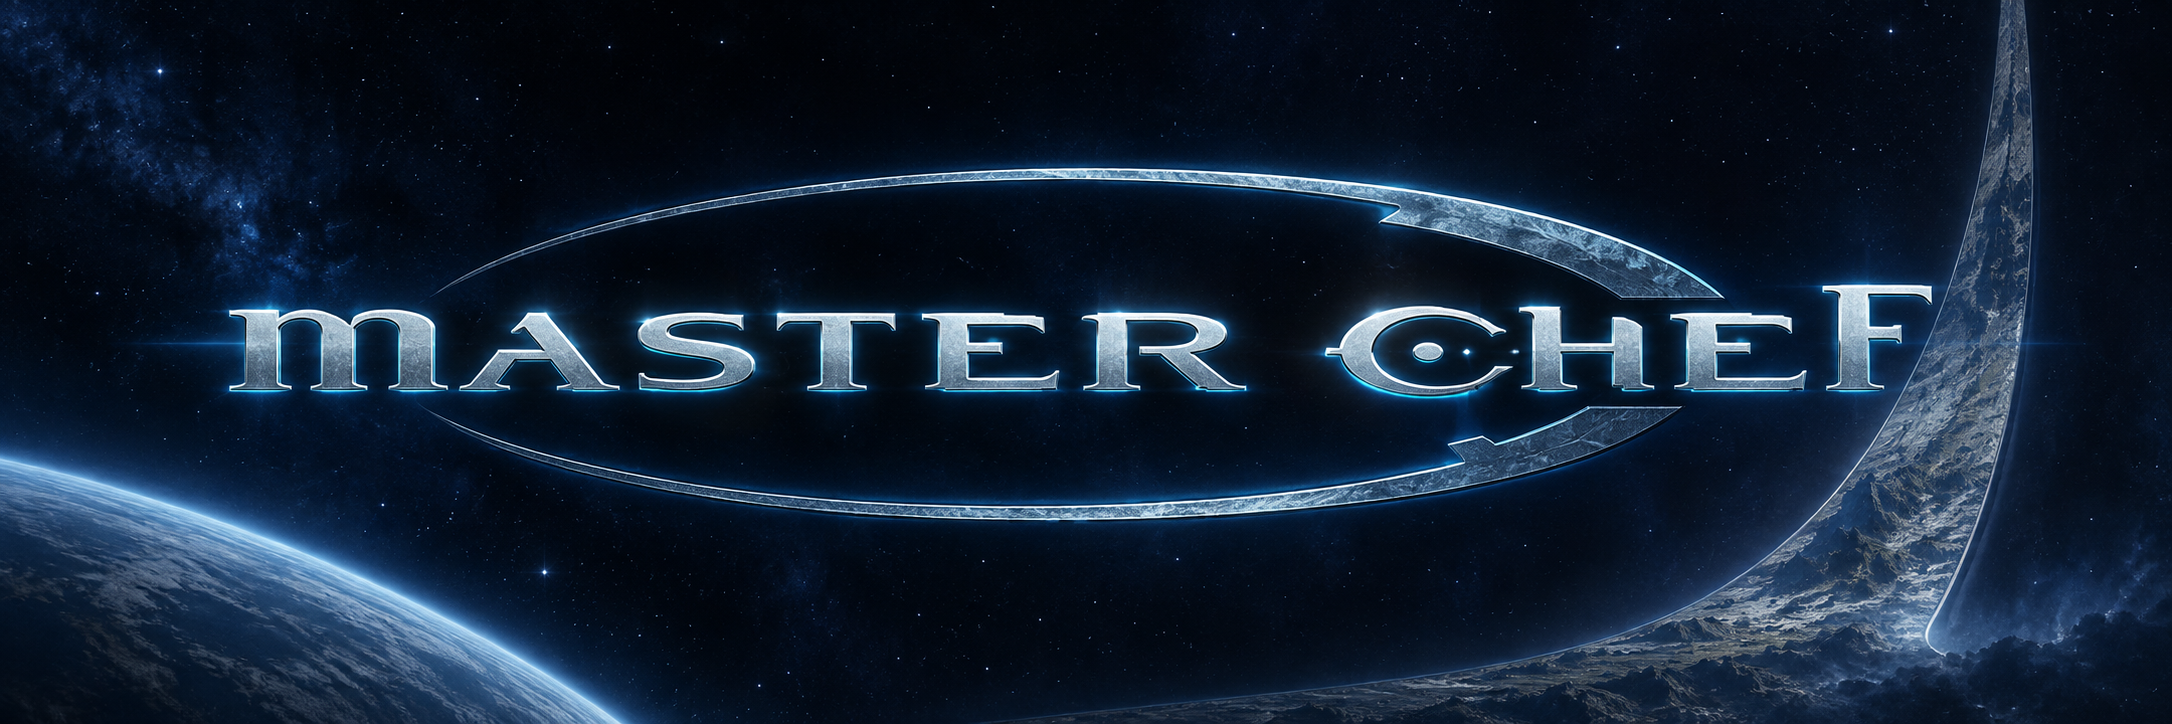
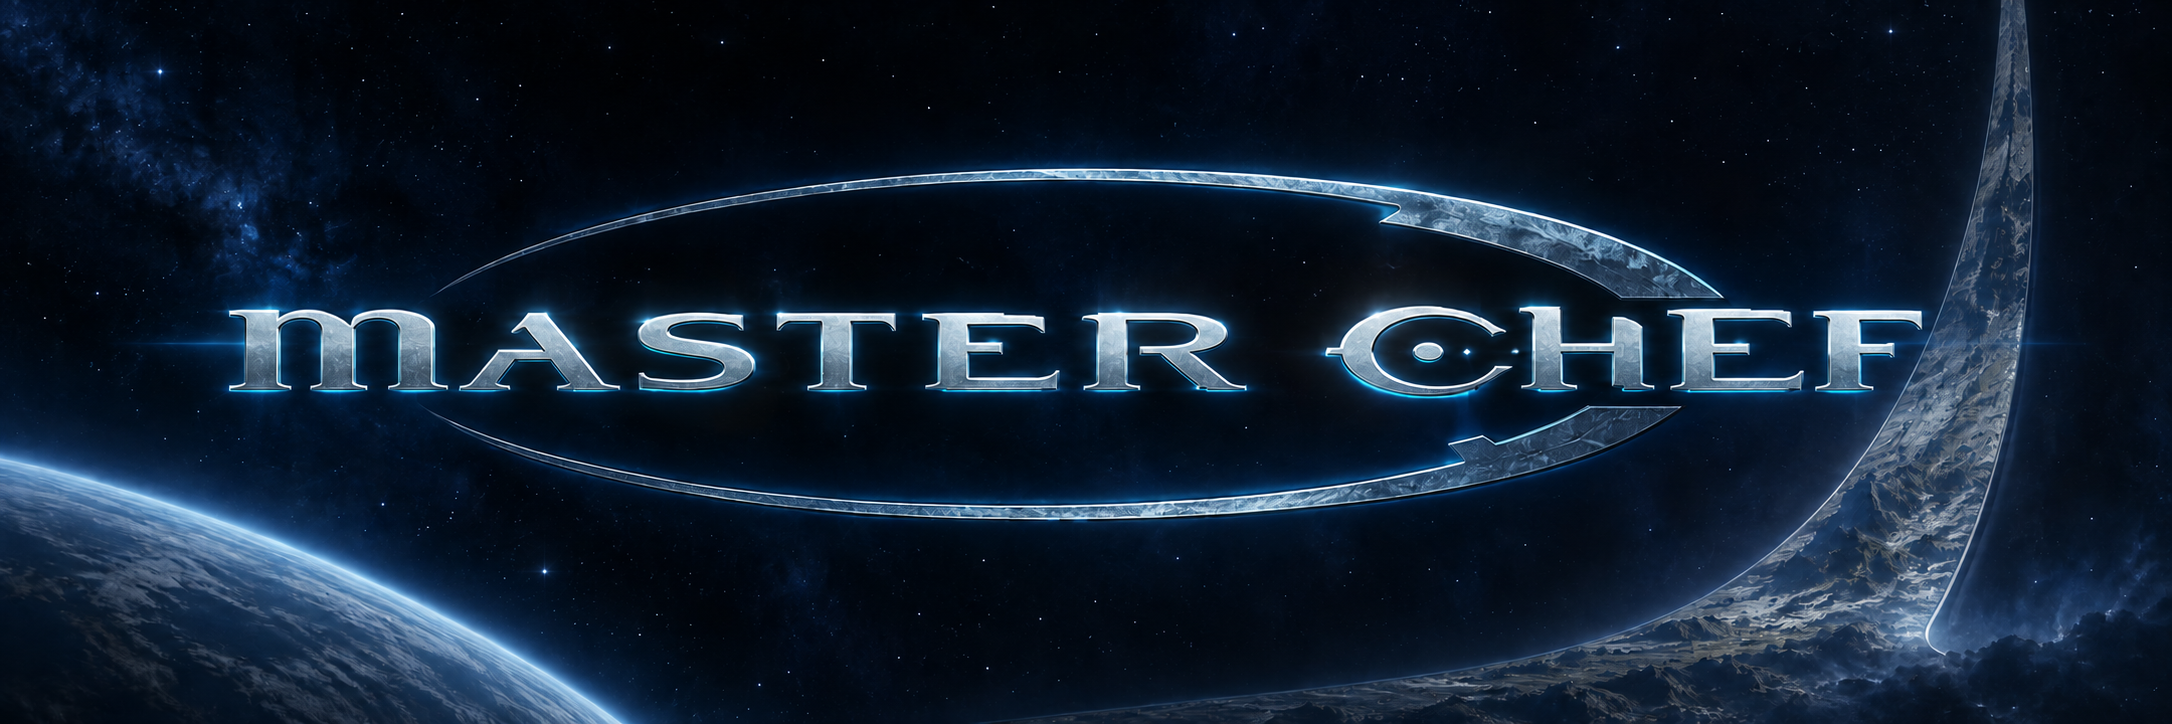
Correct CHEF header lettering and record Build91 startup

diff --git a/tools/check_repository_hygiene.py b/tools/check_repository_hygiene.py
@@ -15,7 +15,7 @@ SKIP = {'.git', '.build', '.setup', '__pycache__', '.venv', 'game', 'build', 'lo
 # Explicitly reviewed generated documentation art, never a general binary
 # allowlist. Changing this image requires reviewing and updating its digest.
 DOCUMENTATION_ART = {
[2 lines of base64/hex data omitted]
 }
 BAD_SUFFIX = {'.exe', '.dll', '.map', '.iso', '.ipa', '.p12', '.p8', '.pfx', '.pem', '.key',
               '.mobileprovision', '.provisionprofile', '.o', '.a', '.dylib', '.so', '.pyc',

diff --git a/docs/assets/README.md b/docs/assets/README.md
@@ -6,6 +6,18 @@ the game and is not an official Halo or Microsoft asset. Existing trademark
 and non-affiliation notices apply. The original PNG includes generation
 provenance. Dimensions: 2172 × 724 pixels.
 
-Generation prompt:
+Original generation prompt:
 
 > Use case: logo-brand. Asset type: a polished GitHub repository README header, very wide landscape banner, approximately 3:1. Primary request: the classic Halo: Combat Evolved logo treatment, with the words "master chef" replacing Halo. Text verbatim: "master chef", spelled m-a-s-t-e-r, space, c-h-e-f. The ONLY text is master chef. Custom futuristic geometric Halo-style letterforms, brushed silver metallic faces with icy blue edges and a faint cyan glow; clean sharp typography, generous letter spacing, instantly readable. A thin sweeping elliptical Halo logo ring behind and around the wordmark. Deep midnight blue and black space backdrop with a subtle sparse star field and a restrained distant ringworld arc. Center the complete logo, comfortably within the image with wide margins so no letter or ring is cropped. Sophisticated restrained early-2000s science-fiction title art, faithful to Halo visual identity. Flat front-facing wordmark, no perspective distortion, no watermark, no subtitle, no extra logos, no characters or food.
+
+The current header corrects the E and F in CHEF, including the final letter's
+height and baseline. It was edited with the same built-in GPT Image tool,
+using the original banner as its edit target. The original remains in the
+v1.0.2 tag and release archive. Final edit prompt:
+
+> Use case: text-localization.
+> Asset type: existing GitHub README header banner.
+> Input image: edit target, the existing master chef Halo-style banner.
+> Primary request: correct ONLY the E and F in the word CHEF, the last two letters of the logo.
+> Make the E in CHEF a clean, unmistakable E in the same futuristic Halo-style font as the E in MASTER: one strong vertical stem and three crisp horizontal bars. Make the final F an unmistakable F with one vertical stem and two horizontal bars, using the same letter design language. Critically, the F must match the E and H in cap height, baseline, thickness and visual size; the current F is too tall and raised. Give the corrected E and F balanced spacing and perfectly clean edges.
+> Keep the exact text "master chef", spelled m-a-s-t-e-r space c-h-e-f. Preserve all other letters, their positions, metallic silver texture, bevels, icy blue glow, elliptical logo ring, stars, ringworld, lighting, background, composition, dimensions and wide margins. Change no content outside those two glyphs and their immediate glow. No new words, no added symbols, no watermark.

diff --git a/docs/VALIDATION.md b/docs/VALIDATION.md
@@ -37,10 +37,15 @@ rates were 29.78 and 29.86 FPS respectively. These short desktop probes do not
 measure firefights, full missions, audible output or headset performance, and
 do not establish an improvement over an equivalent baseline.
 
-The owner headset's developer service was unreachable during the initial
-installation attempt. Build91 installation, launch and headset gameplay have
-not been validated for this source release. Known panorama, combat-performance
-and audio limitations remain documented in [KNOWN_ISSUES.md](KNOWN_ISSUES.md).
+The initial owner installation attempt could not reach the headset. A later
+attempt on September 29, 2026 (Central time) installed and launched Build91;
+device inventory independently confirmed version 1.0.2/build 91. Five startup
+diagnostic snapshots matched the expected BuildID. The final snapshot reached
+engine frame 1,226 with immersive presentation active, 2,708 completed GPU
+frames and zero GPU failures. Its audio queue was running with nonzero samples,
+zero enqueue failures and zero watchdog rebuilds. This verifies installation
+and startup, not audible continuity, visual acceptance or campaign performance.
+Known limitations remain in [KNOWN_ISSUES.md](KNOWN_ISSUES.md).
 
 CI now targets macOS because the host fixtures depend on Mach APIs and Apple's
 linker. The local passes above are not hosted CI results; previous hosted runs
